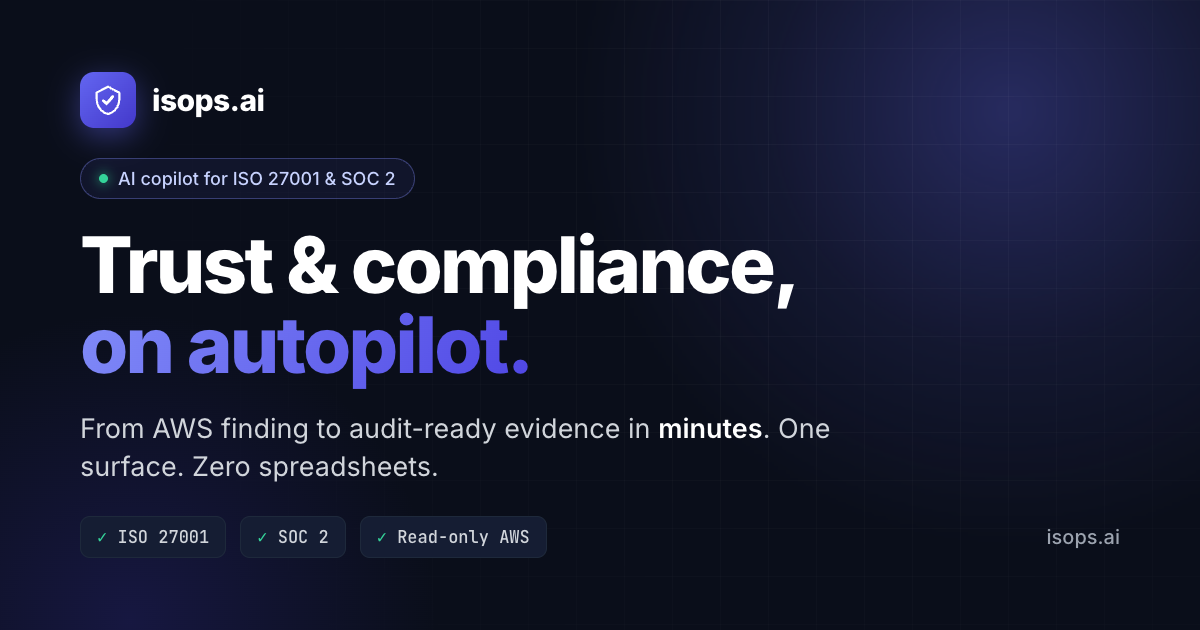
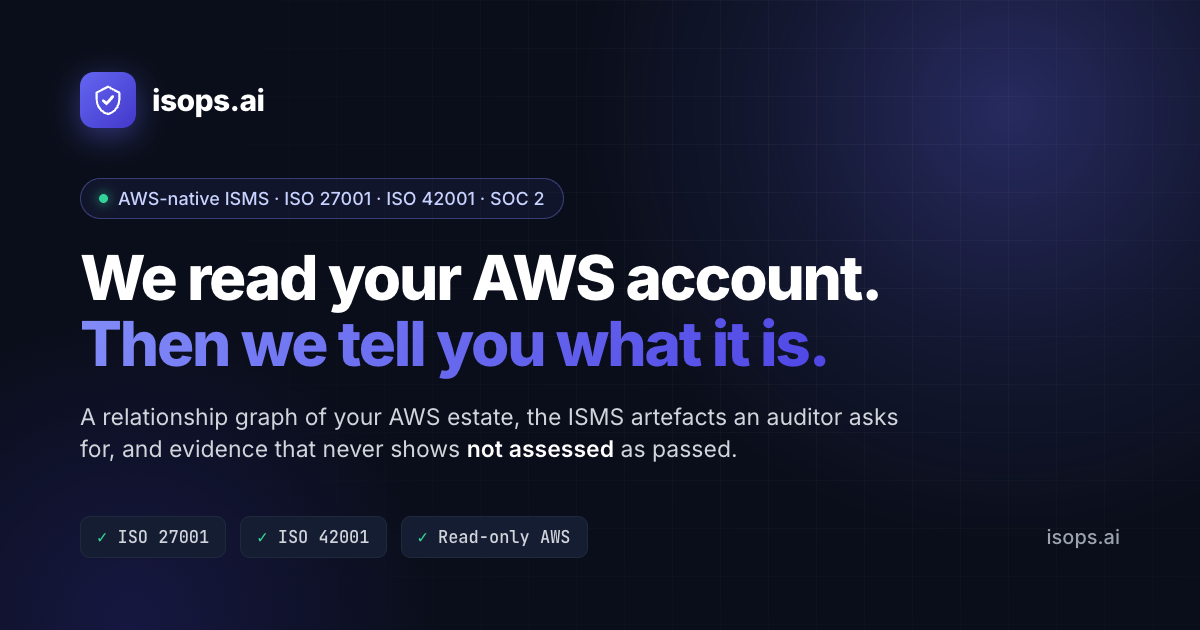
Lead with what the product found, and retire 'on autopilot'
The old headline claimed compliance runs unattended. It sat one screen
above a Scope section stating the opposite: scan-based, not real-time,
and nothing remediates without a person approving it. A tagline that
fails the site's own honesty standard is a liability.

The hero is now the Discovery Intelligence narrative — real text in the
DOM, indexable and readable, quoted from a reference-account run and
labelled as such. It demonstrates the graph instead of describing it,
which no competitor's marketing page can reproduce.

Acronym casing and pluralisation are the corrected forms the product
now emits, so the quote is not labelled unedited.

og-image regenerated: the longer headline overflowed at 78px, and the
chip and sub-line still carried the retired positioning.

Changed region(s): [[0.0617, 0.3619, 0.74, 0.754], [0.0617, 0.2714, 0.4625, 0.3317], [0.2158, 0.8143, 0.4933, 0.9048]]

diff --git a/index.html b/index.html
@@ -3,19 +3,19 @@
   <head>
     <meta charset="UTF-8" />
     <meta name="viewport" content="width=device-width, initial-scale=1.0" />
-    <title>isops.ai — Trust &amp; compliance, on autopilot.</title>
+    <title>isops.ai — The AWS-native ISMS that reads your account first.</title>
     <meta name="theme-color" content="#0a0e1a" />
     <meta name="robots" content="index,follow" />
     <meta
       name="description"
-      content="From AWS finding to audit-ready evidence in minutes. ISO 27001 &amp; SOC 2, powered by AI. Built for security teams that ship."
+      content="A relationship graph of your AWS account, the ISMS artefacts an auditor asks for, and evidence that never shows &quot;not assessed&quot; as &quot;passed&quot;. ISO 27001, ISO 42001, SOC 2. Self-hosted, read-only."
     />
     <meta name="application-name" content="isops.ai" />
     <meta property="og:site_name" content="isops.ai" />
-    <meta property="og:title" content="isops.ai — Trust &amp; compliance, on autopilot." />
+    <meta property="og:title" content="isops.ai — We read your AWS account. Then we tell you what it is." />
     <meta
       property="og:description"
-      content="From AWS finding to audit-ready evidence in minutes. ISO 27001 &amp; SOC 2, powered by AI."
+      content="A relationship graph of your AWS account, the ISMS artefacts an auditor asks for, and evidence that never shows &quot;not assessed&quot; as &quot;passed&quot;. ISO 27001, ISO 42001, SOC 2. Self-hosted, read-only."
     />
     <meta property="og:type" content="website" />
     <meta property="og:url" content="https://isops.ai/" />
@@ -23,7 +23,7 @@
     <meta name="twitter:title" content="isops.ai" />
     <meta
       name="twitter:description"
-      content="Trust &amp; compliance, on autopilot. ISO 27001 &amp; SOC 2 for AWS — in minutes."
+      content="A relationship graph of your AWS account, the ISMS artefacts an auditor asks for, and evidence that never shows &quot;not assessed&quot; as &quot;passed&quot;. ISO 27001, ISO 42001, SOC 2."
     />
     <meta property="og:image" content="https://isops.ai/og-image.png" />
     <meta name="twitter:image" content="https://isops.ai/og-image.png" />
@@ -47,7 +47,7 @@
         "name": "isops.ai",
         "applicationCategory": "BusinessApplication",
         "operatingSystem": "Web",
-        "description": "AI-native trust and compliance operations platform for AWS posture, remediation, evidence, and audit reporting.",
+        "description": "Self-hosted ISMS for AWS: infrastructure relationship graph, ISO 27001 / ISO 42001 / SOC 2 control tracking, evidence, audit reporting and an auditor portal.",
         "url": "https://isops.ai/",
         "offers": {
           "@type": "Offer",
@@ -1590,16 +1590,16 @@
       <div class="container">
         <span class="hero-chip">
           <span class="hero-chip-dot" aria-hidden="true"></span>
-          AWS-native ISMS · ISO 27001, ISO 42001 &amp; SOC 2
+          AWS-native ISMS · ISO 27001 · ISO 42001 · SOC 2
         </span>
 
         <h1>
-          Trust &amp; compliance,<br/>
-          <span class="grad">on autopilot.</span>
+          We read your AWS account.<br/>
+          <span class="grad">Then we tell you what it is.</span>
         </h1>
 
         <p class="hero-sub">
-          From AWS finding to audit-ready evidence in <strong>minutes</strong>. One surface. Zero spreadsheets.
+          A relationship graph of your estate, the ISMS artefacts an auditor asks for, and evidence that never shows "not assessed" as "passed". Self-hosted. Read-only.
         </p>
 
         <div class="hero-cta">
@@ -1607,13 +1607,31 @@
             Book a demo
             <svg viewBox="0 0 24 24" fill="none" stroke="currentColor" stroke-width="2.5"><path stroke-linecap="round" stroke-linejoin="round" d="M13.5 4.5L21 12m0 0l-7.5 7.5M21 12H3"/></svg>
           </a>
-          <a href="#product" class="btn btn-ghost btn-lg">See it live</a>
+          <a href="platform.html" class="btn btn-ghost btn-lg">See the platform</a>
         </div>
 
         <div class="hero-signals">
           <span class="hero-signal"><svg viewBox="0 0 24 24" fill="none" stroke="currentColor" stroke-width="3"><path stroke-linecap="round" stroke-linejoin="round" d="M4.5 12.75l6 6 9-13.5"/></svg> Read-only AWS</span>
           <span class="hero-signal"><svg viewBox="0 0 24 24" fill="none" stroke="currentColor" stroke-width="3"><path stroke-linecap="round" stroke-linejoin="round" d="M4.5 12.75l6 6 9-13.5"/></svg> Runs in your AWS account</span>
           <span class="hero-signal"><svg viewBox="0 0 24 24" fill="none" stroke="currentColor" stroke-width="3"><path stroke-linecap="round" stroke-linejoin="round" d="M4.5 12.75l6 6 9-13.5"/></svg> AWS-native by design</span>
+        </div>
+
+        <!-- ========== Discovery Intelligence narrative ========== -->
+        <div class="step-code" style="max-width:880px; margin: 48px auto 0; overflow-wrap: anywhere;">
+          <div style="font-family: var(--font-mono, monospace); font-size: 12.5px; color: var(--gray-400, #94a3b8); margin-bottom: 14px; letter-spacing: 0.01em;">
+            Discovery Intelligence &middot; output from our reference account
+          </div>
+          <p style="margin: 0; line-height: 1.7;">
+            We discovered <strong>826</strong> resources in your AWS estate across 6 regions. They organize into
+            <strong>16</strong> logical workloads and <strong>1</strong> inferred owner. The biggest workloads are ECS Cluster
+            (web app), S3 Cluster (data tier), and IAM Cluster (serverless pipeline).
+            <strong>825</strong> resources (<strong>100%</strong>) have no inferred owner — adding owner/team tags would
+            dramatically improve traceability. We flagged <strong>104</strong> orphaned resources with no
+            connections, <strong>32</strong> critical hot spots — start there for your first cleanup pass.
+          </p>
+          <div style="font-family: var(--font-mono, monospace); font-size: 12.5px; color: var(--gray-400, #94a3b8); margin-top: 14px; letter-spacing: 0.01em;">
+            826 resources &middot; 2,223 relationships &middot; 0 dangling edges
+          </div>
         </div>
 
         <!-- ========== Live product preview ========== -->

diff --git a/og-image.html b/og-image.html
@@ -102,8 +102,8 @@
         box-shadow: 0 0 12px var(--green-400);
       }
       h1 {
-        font-size: 78px; font-weight: 800;
-        line-height: 1.02; letter-spacing: -0.035em;
+        font-size: 62px; font-weight: 800;
+        line-height: 1.06; letter-spacing: -0.035em;
         max-width: 940px;
       }
       h1 .accent {
@@ -113,7 +113,7 @@
       }
       .sub {
         margin-top: 26px;
-        font-size: 27px; line-height: 1.4; font-weight: 400;
+        font-size: 23px; line-height: 1.38; font-weight: 400;
         color: var(--gray-300); max-width: 820px;
       }
       .sub b { color: #fff; font-weight: 600; }
@@ -147,14 +147,14 @@
       </div>
 
       <div>
-        <span class="pill"><span class="dot"></span>AI copilot for ISO 27001 &amp; SOC 2</span>
-        <h1>Trust &amp; compliance,<br /><span class="accent">on autopilot.</span></h1>
-        <p class="sub">From AWS finding to audit-ready evidence in <b>minutes</b>. One surface. Zero spreadsheets.</p>
+        <span class="pill"><span class="dot"></span>AWS-native ISMS · ISO 27001 · ISO 42001 · SOC 2</span>
+        <h1>We read your AWS account.<br /><span class="accent">Then we tell you what it is.</span></h1>
+        <p class="sub">A relationship graph of your AWS estate, the ISMS artefacts an auditor asks for, and evidence that never shows <b>not assessed</b> as passed.</p>
       </div>
 
       <div class="foot">
         <span class="chip"><span class="c">✓</span> ISO 27001</span>
-        <span class="chip"><span class="c">✓</span> SOC 2</span>
+        <span class="chip"><span class="c">✓</span> ISO 42001</span>
         <span class="chip"><span class="c">✓</span> Read-only AWS</span>
         <span class="url">isops.ai</span>
       </div>
